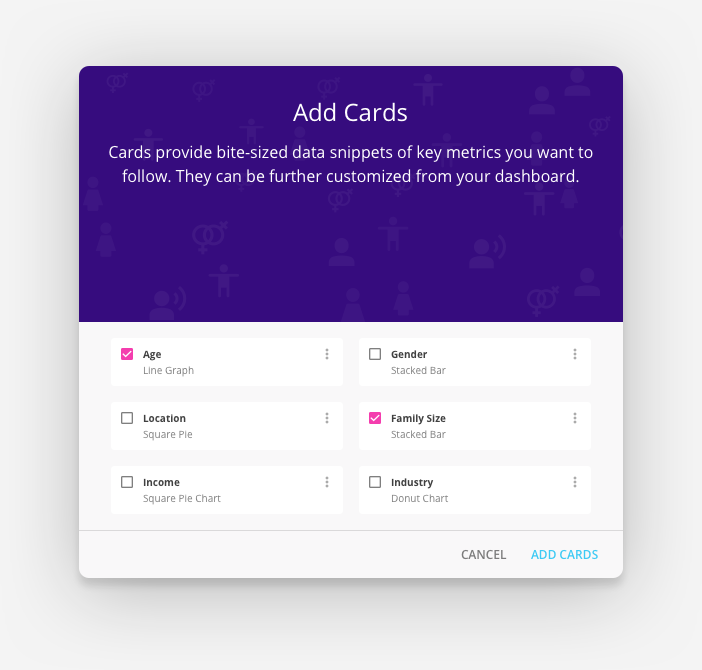
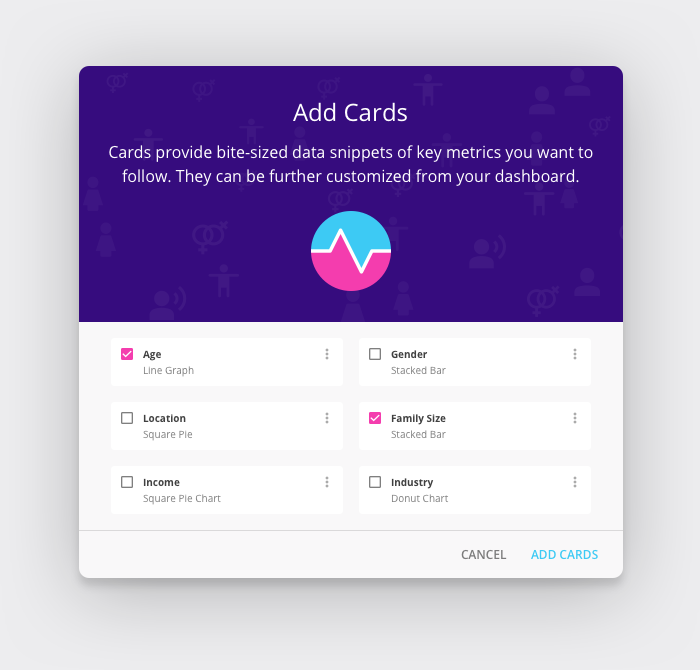
Much more details styles of modal-1
Because modals are more than just divs with pretty box-shadow. They include text, colors, graphics… and it all admired content should be represented in the CSS

diff --git a/modals/css/modals.css b/modals/css/modals.css
@@ -7,6 +7,26 @@
 	box-shadow: 0 8px 8px 0 rgba(0,0,0,.12), 0 13px 80px 0 rgba(0,0,0,.24);
 }
 
+.modal-1 header {
+	font-family: 'Open Sans';
+
+	color: #fff;
+	background: #360c7e;
+}
+
+.modal-1 h1 {
+	font-size: 24px;
+}
+
+.modal-1 p {
+	font-size: 16px;
+	line-height: 1.5;
+}
+
+body.modal-1 {
+	background: #ededef;
+}
+
 /*----------------------------------------------------------------------*/
 
 .modal-2 {
